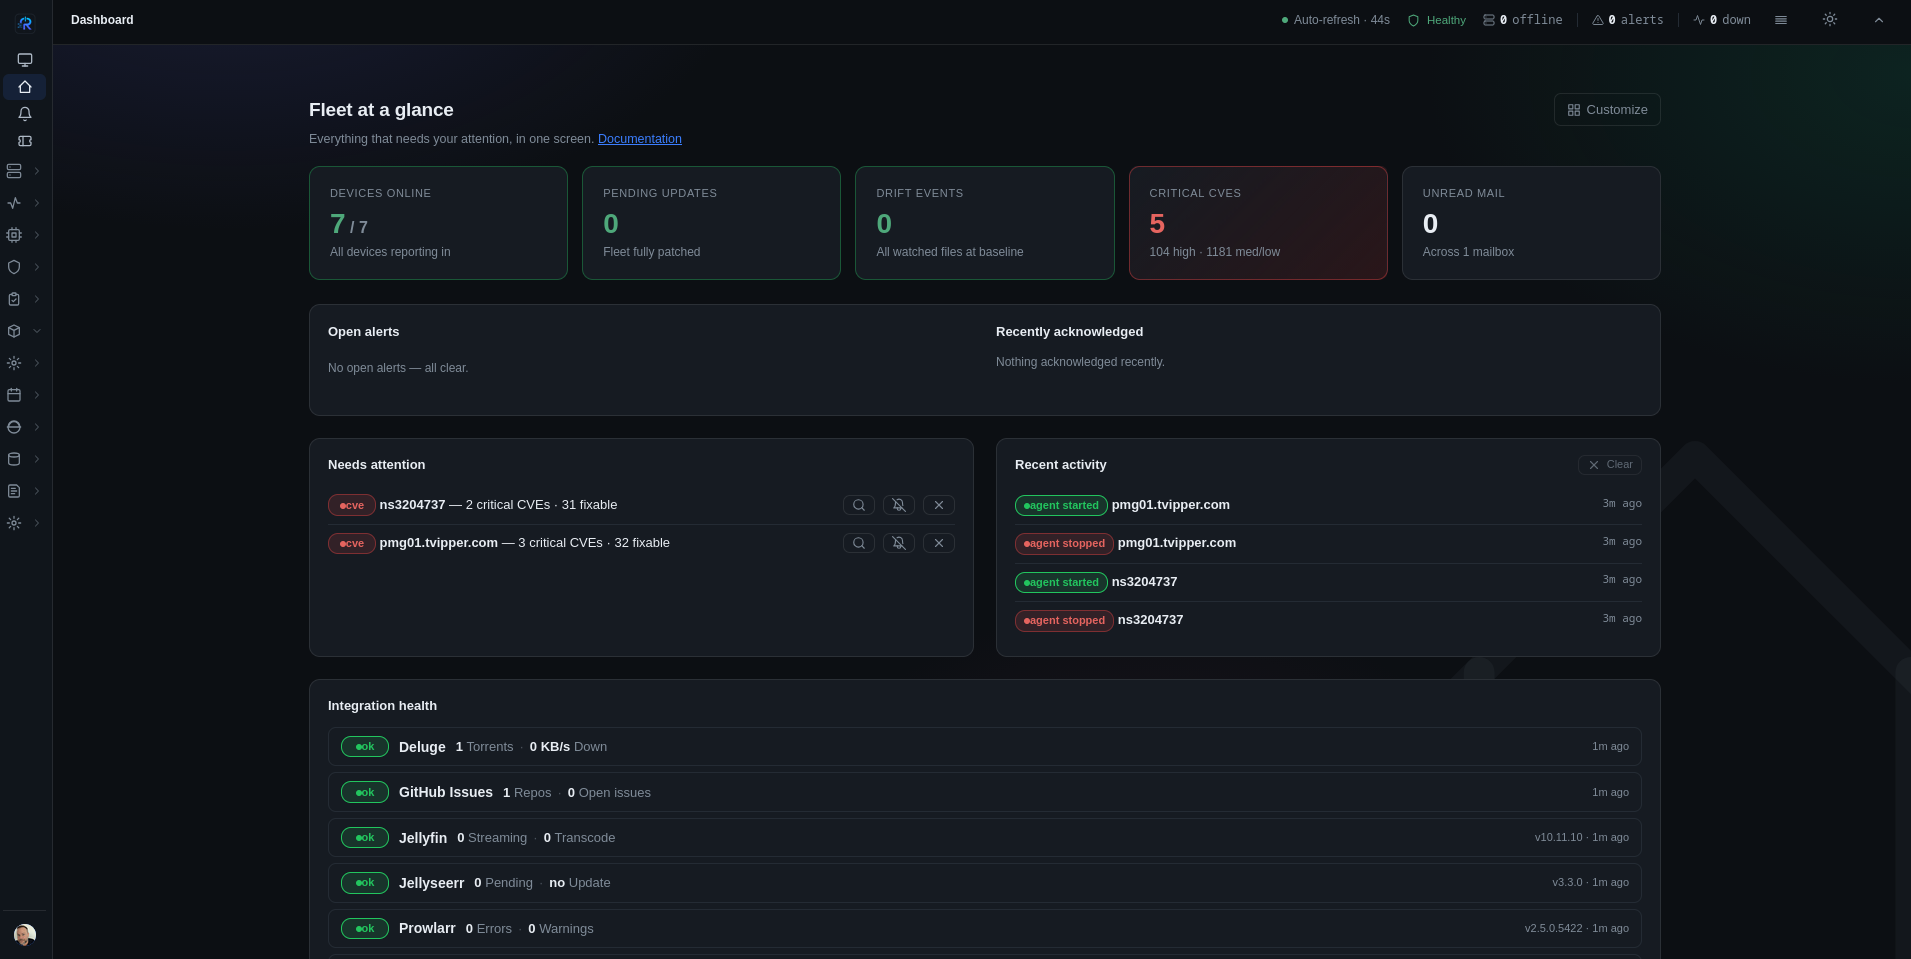
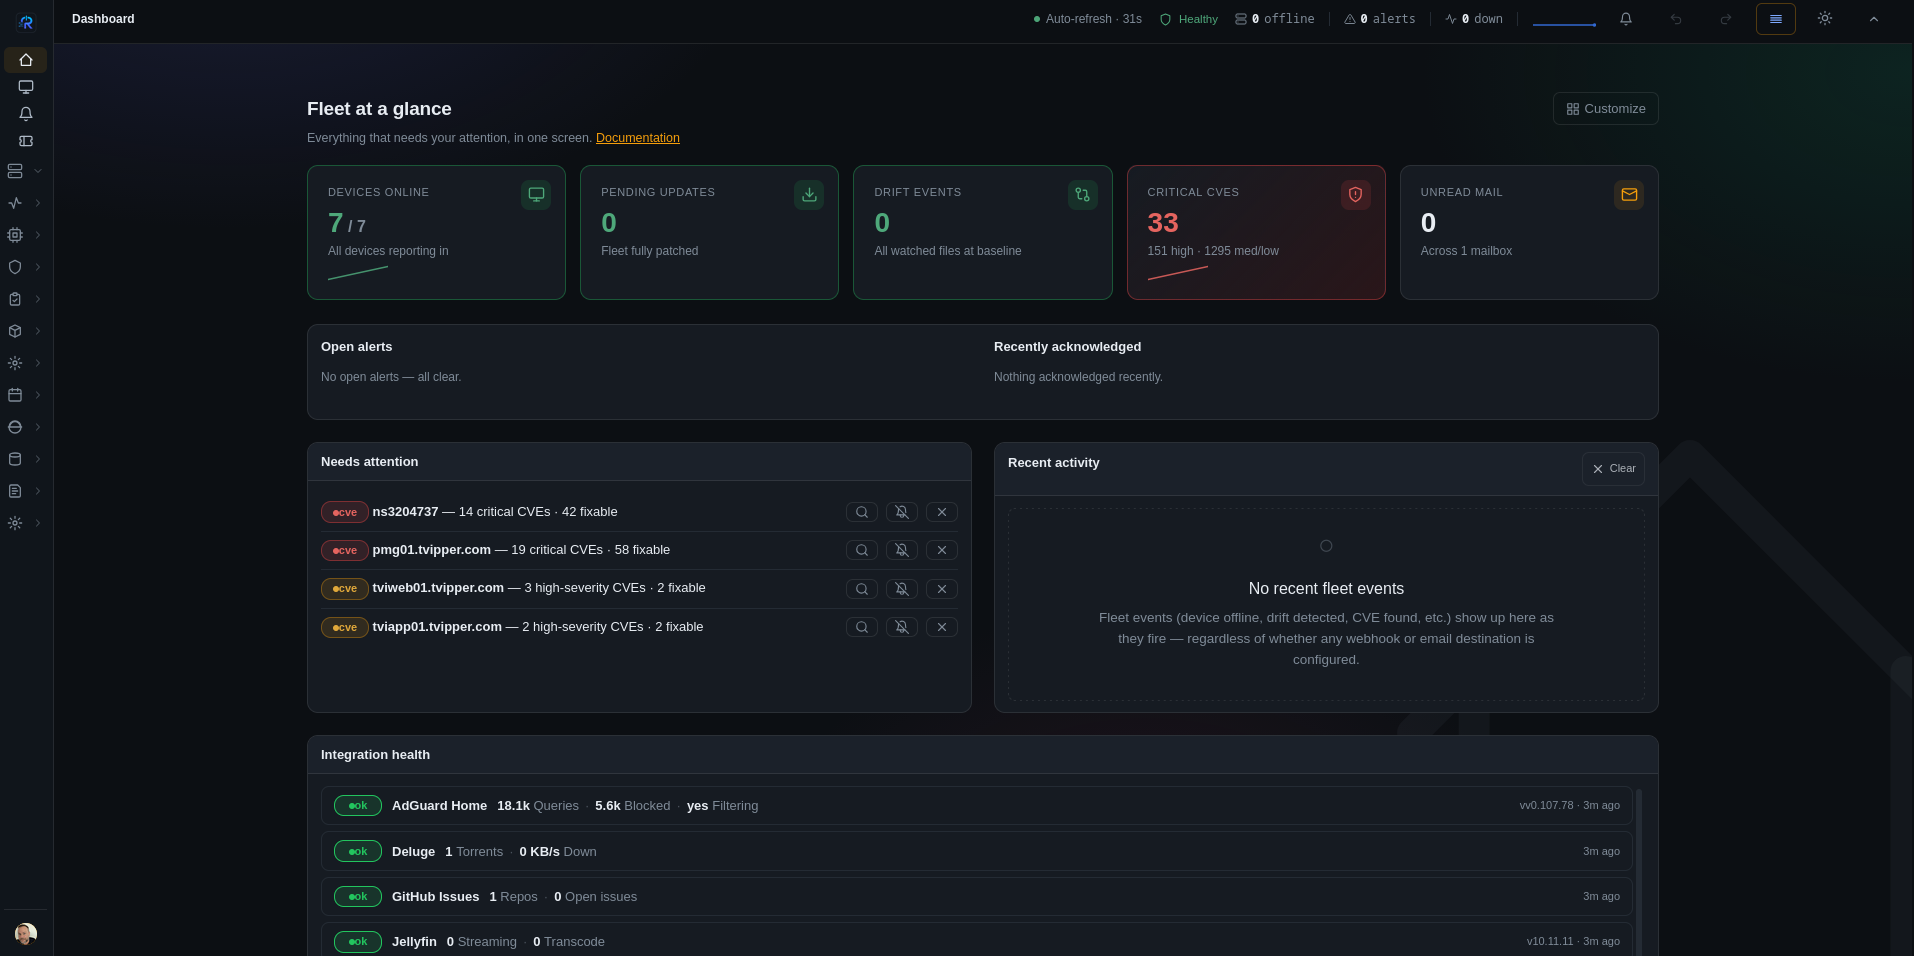
docs: refreshed Dash/Index screenshots + new Containers and KMIP shots
Dash.png and Index.png re-captured (same filenames — the README gallery
and site pick them up as-is). Containers.png and KMIP.png are new: a
Containers + KMIP row added to the README gallery, and docs/kmip.md now
opens with the Security → KMIP screenshot (the docs/cli.md idiom).
The marketing site is pre-staged locally (lowercase assets copied,
shot + lightbox pairs added, all references verified) — site/ is
gitignored and deploys only at the v6.4.1 promotion.

Claude-Session: https://claude.ai/code/session_01RALWR2rZ8oYuzCk3oPpD9N

diff --git a/README.md b/README.md
@@ -61,6 +61,10 @@ five minutes.
 <td align="center"><b>Browser SSH terminal</b><br><a href="docs/screenshots/Terminal.png"><img src="docs/screenshots/Terminal.png" width="400"></a></td>
 <td align="center"><b>rp — node control (TUI)</b><br><a href="docs/screenshots/TUI.png"><img src="docs/screenshots/TUI.png" width="400"></a></td>
 </tr>
+<tr>
+<td align="center"><b>Containers</b><br><a href="docs/screenshots/Containers.png"><img src="docs/screenshots/Containers.png" width="400"></a></td>
+<td align="center"><b>KMIP key server</b><br><a href="docs/screenshots/KMIP.png"><img src="docs/screenshots/KMIP.png" width="400"></a></td>
+</tr>
 </table>
 </details>
 

diff --git a/docs/kmip.md b/docs/kmip.md
@@ -10,6 +10,8 @@ appliances speak to an external key manager.
 RemotePower ships one. It is **off by default** and runs as a separate,
 sandboxed sidecar service, so nothing listens until you ask for it.
 
+<img src="screenshots/KMIP.png" alt="Security → KMIP — server state, clients, keys and activity" width="760">
+
 > **Read this before you enable it.** Once an appliance stores its keys here, it
 > needs this server reachable **at its own boot time** to mount encrypted
 > storage. Never run the KMIP server on a machine that depends on it to unlock —
